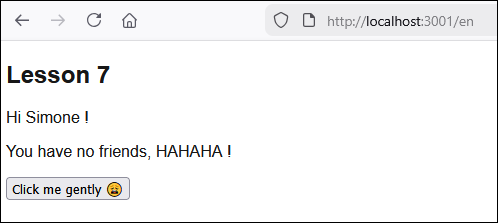
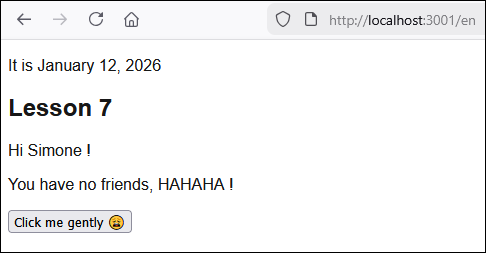
Cours 7 : dates

diff --git a/web/docs/01-notes/07-rencontre4.1.md b/web/docs/01-notes/07-rencontre4.1.md
@@ -395,13 +395,23 @@ C'est le cas le plus commun.
 * 📝 JSON : `"itemCount":"Tu {count, plural, =0 {n'as aucun item} =1 {as un seul item} other {as # items}}."`
 * 🔍 Résultat : `<p>Tu as 5 items.</p>`
 
+**📅 Exemple 4 : Date**
+
+`myDate` est une donnée de type `Date` déclarée dans le composant.
+
+* 🌐 HTML : `<p>{t('currentDate', {dateVar : myDate})}</p>`
+* 📝 JSON : `"currentDate":"Nous sommes le {dateVar, date, ::yyyyMMMMd}"`
+* 🔍 Résultat : `<p>Nous sommes le 12 janvier 2026</p>`
+
 :::note
+
+Le format `::yyyyMMMMd` peut être remplacé par un autre format. Vérifiez les autres formats disponibles [ici](https://next-intl.dev/docs/usage/dates-times#dates-and-times-within-messages).
 
 Il existe plusieurs autres types de textes. [Voir la documentation](https://next-intl.dev/docs/usage/translations)
 
 :::
 
-**Voici une page qui exploite les trois exemples abordés** :
+**Voici une page qui exploite les quatre exemples abordés** :
 
 <Tabs>
     <TabItem value="fr" label="fr.json">
@@ -411,7 +421,8 @@ Il existe plusieurs autres types de textes. [Voir la documentation](https://next
         "title":"Cours 7",
         "hi":"Bonjour {name} !",
         "friends":"Tu {count, plural, =0 {n'as aucun ami, HAHAHA !} =1 {as un ami.} other {as # amis.}}",
-        "button":"Appuie-moi délicatement 😩"
+        "button":"Appuie-moi délicatement 😩",
+        "currentDate":"Nous sommes le {dateVar, date, ::yyyyMMMMd}"
     }
 }
 ```
@@ -423,7 +434,8 @@ Il existe plusieurs autres types de textes. [Voir la documentation](https://next
         "title":"Lesson 7",
         "hi":"Hi {name} !",
         "friends":"You {count, plural, =0 {have no friends, HAHAHA !} =1 {have a single friend.} other {have # friends.}}",
-        "button":"Click me gently 😩"
+        "button":"Click me gently 😩",
+        "currentDate":"It is {dateVar, date, ::yyyyMMMMd}"
     }
 }
 ```
@@ -441,8 +453,12 @@ export default function Home() {
   const [myName, setMyName] = useState("Simone");
   const [nbFriends, setNbFrients] = useState(0);
 
+  const formatter = useFormatter(); // Hook préexistant nécessaire pour les dates !
+  const myDate = new Date(); // Maintenant
+
   return (
     <div>
+      <p>{t('currentDate', { 'dateVar' : myDate})}</p>
       <h2>{t('title')}</h2>
       <p>{t('hi', {name : myName})}</p>
       <p>{t('friends', {count : nbFriends})}</p>

diff --git a/web/docs/01-notes/08-rencontre4.2.md b/web/docs/01-notes/08-rencontre4.2.md
@@ -1,4 +1,4 @@
-# Cours 8 - Maps, vidéos, pipes
+# Cours 8 - Maps, vidéos
 
 ### ▶ Intégration YouTube
 
